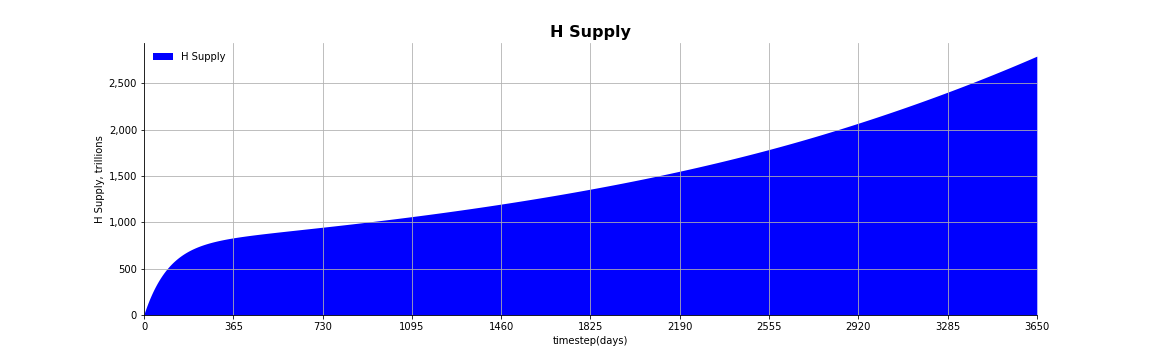
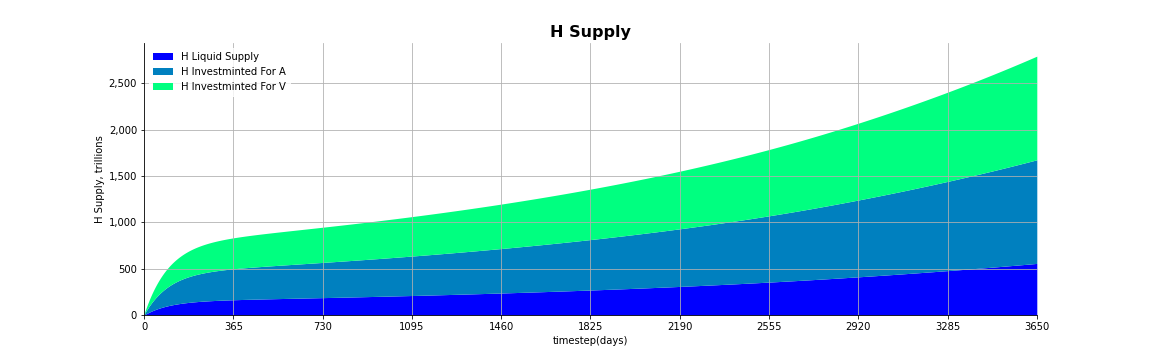
- Update `H Supply` chart

Changed region(s): [[0.125, 0.1528, 0.9062, 0.8861], [0.125, 0.1222, 0.25, 0.275]]

diff --git a/bostrom/utils/plots.py b/bostrom/utils/plots.py
@@ -39,6 +39,7 @@ def prepare_df(df: pd.DataFrame) -> pd.DataFrame:
     df['boot_frozen_supply'] = df['boot_frozen_supply'] / 1e12
     df['boot_bonded_supply'] = df['boot_bonded_supply'] / 1e12
     df['hydrogen_supply'] = df['hydrogen_supply'] / 1e12
+    df['hydrogen_liquid_supply'] = df['hydrogen_liquid_supply'] / 1e12
     df['ampere_supply'] = df['ampere_supply'] / 1e6
     df['ampere_minted_amount'] = df['ampere_minted_amount'] / 1e6
     df['volt_supply'] = df['volt_supply'] / 1e6
@@ -126,10 +127,16 @@ def boot_supply_plot(df: pd.DataFrame, title: str = 'BOOT Supply', figsize: tupl
          figsize=figsize)
 
 
-def hydrogen_supply_plot(df: pd.DataFrame, title: str = 'H Supply', figsize: tuple = FIGSIZE):
+def hydrogen_supply_plot(df: pd.DataFrame, a_v_ratio: float = 1, title: str = 'H Supply', figsize: tuple = FIGSIZE):
+    df[rename_column('hydrogen_investminted_for_ampere')] = \
+        (df[rename_column('hydrogen_supply')] - df[rename_column('hydrogen_liquid_supply')]) * \
+        a_v_ratio / (1 + a_v_ratio)
+    df[rename_column('hydrogen_investminted_for_volt')] = \
+        (df[rename_column('hydrogen_supply')] - df[rename_column('hydrogen_liquid_supply')]) * \
+        1 / (1 + a_v_ratio)
     plot(df=df,
          title=title,
-         columns_1=['hydrogen_supply'],
+         columns_1=['hydrogen_liquid_supply', 'hydrogen_investminted_for_ampere', 'hydrogen_investminted_for_volt'],
          ylabel_1='H Supply, trillions',
          figsize=figsize)
 
